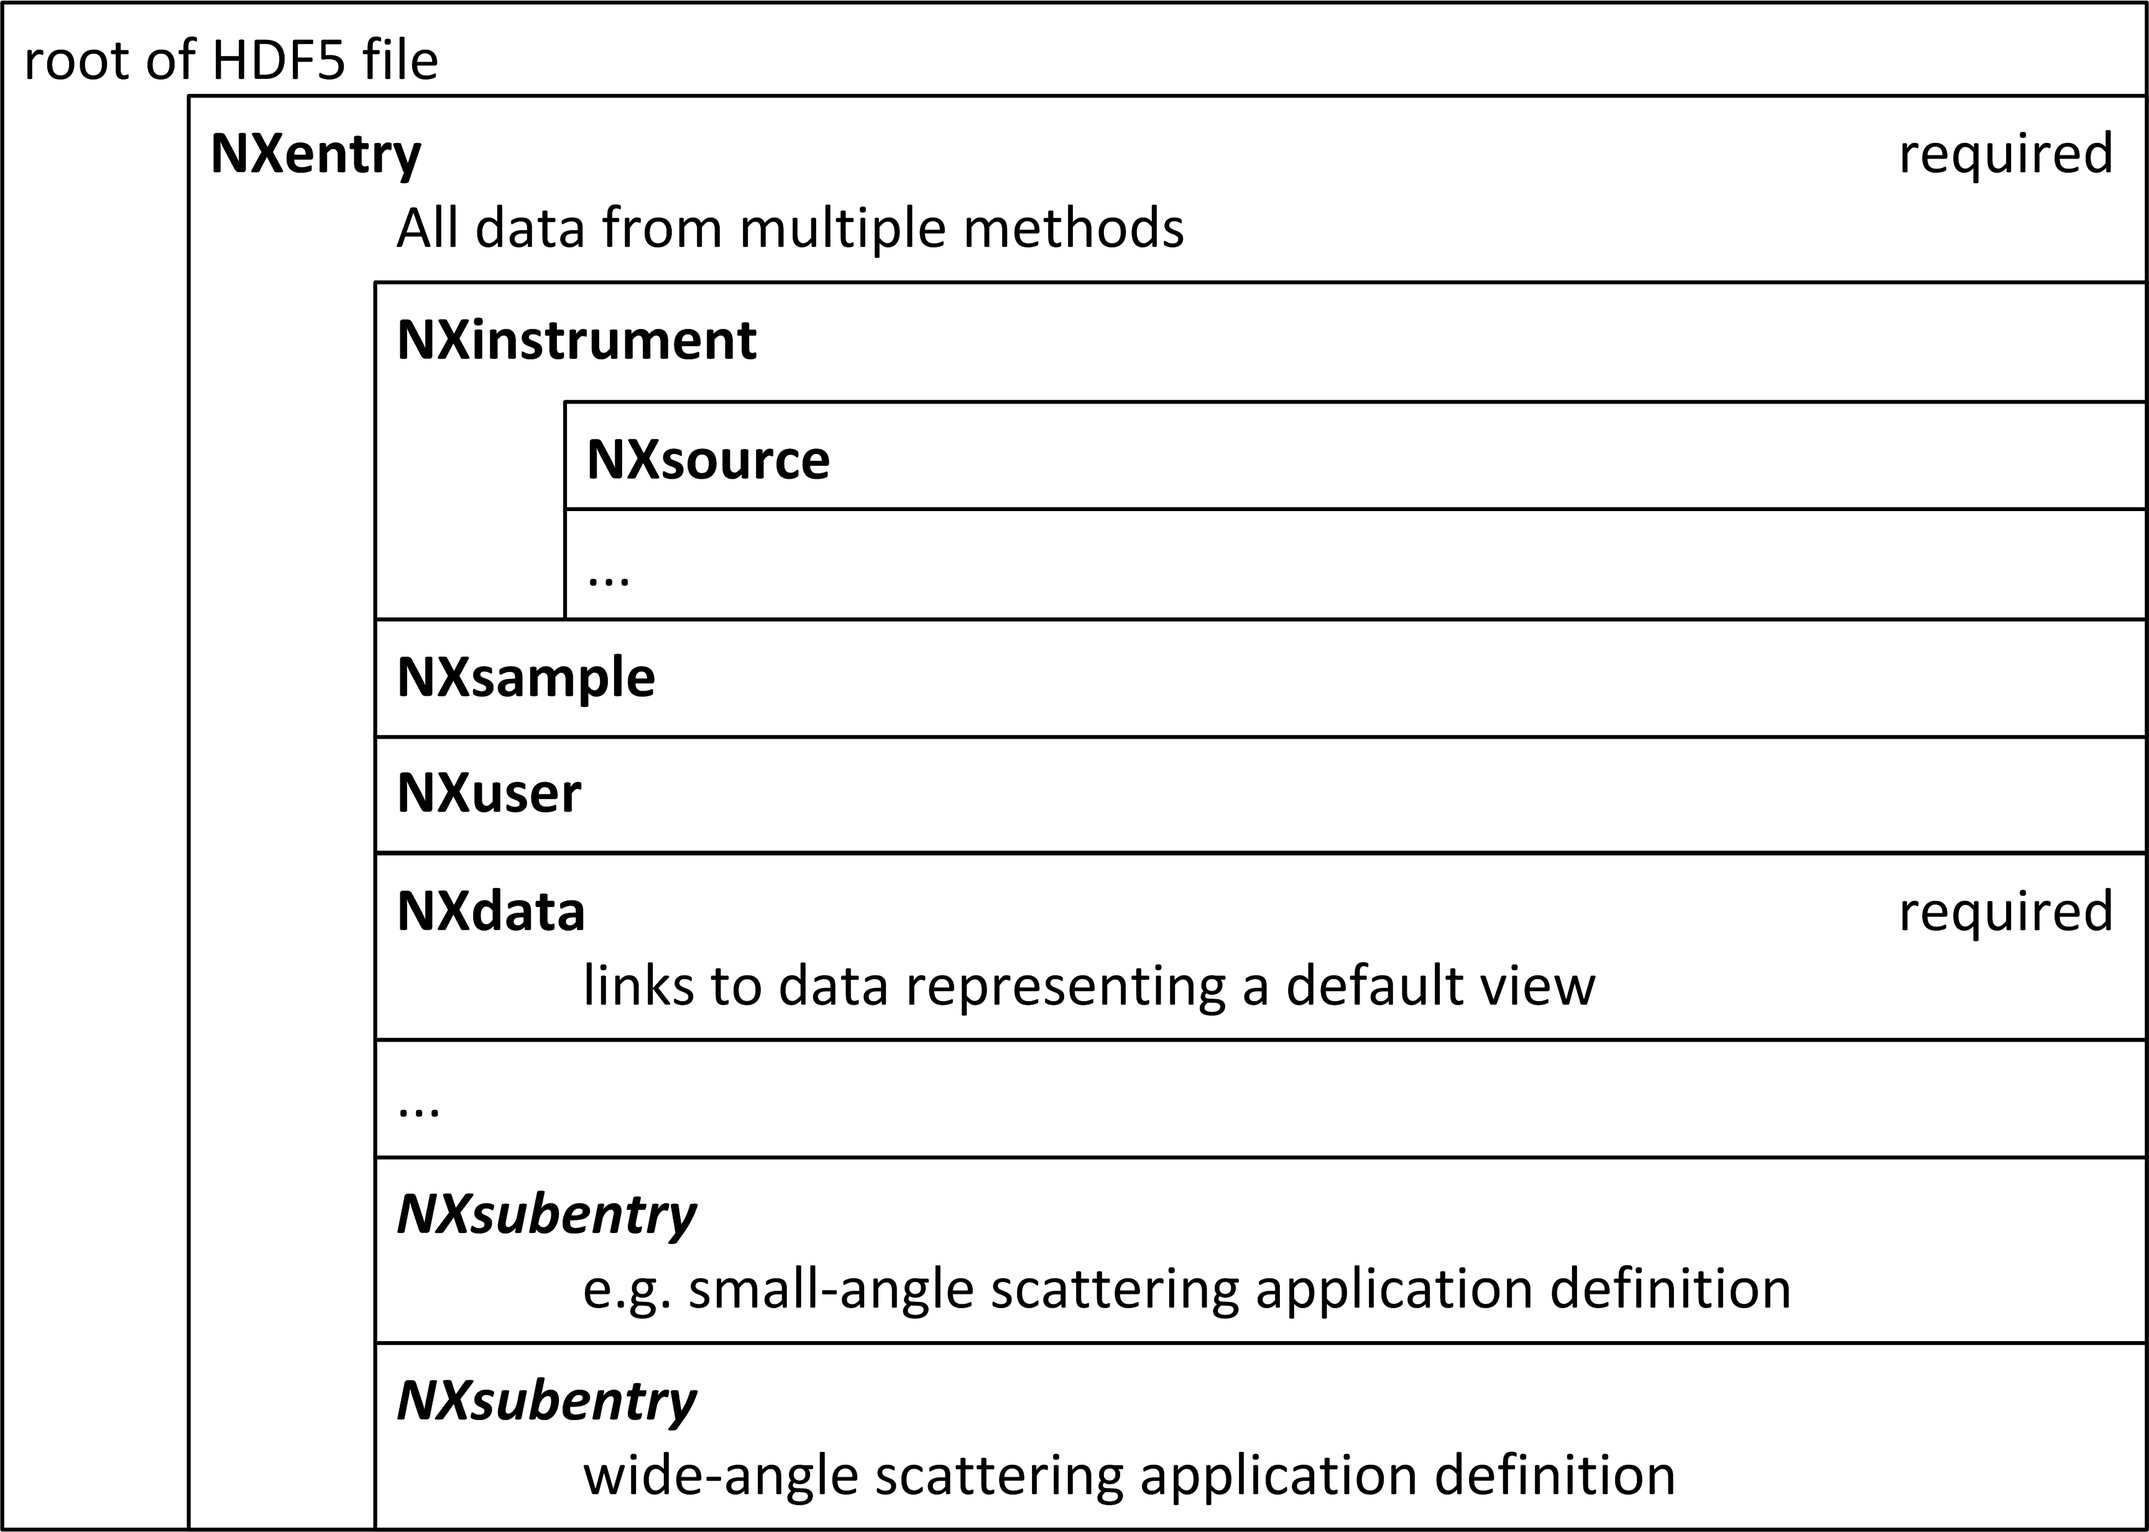
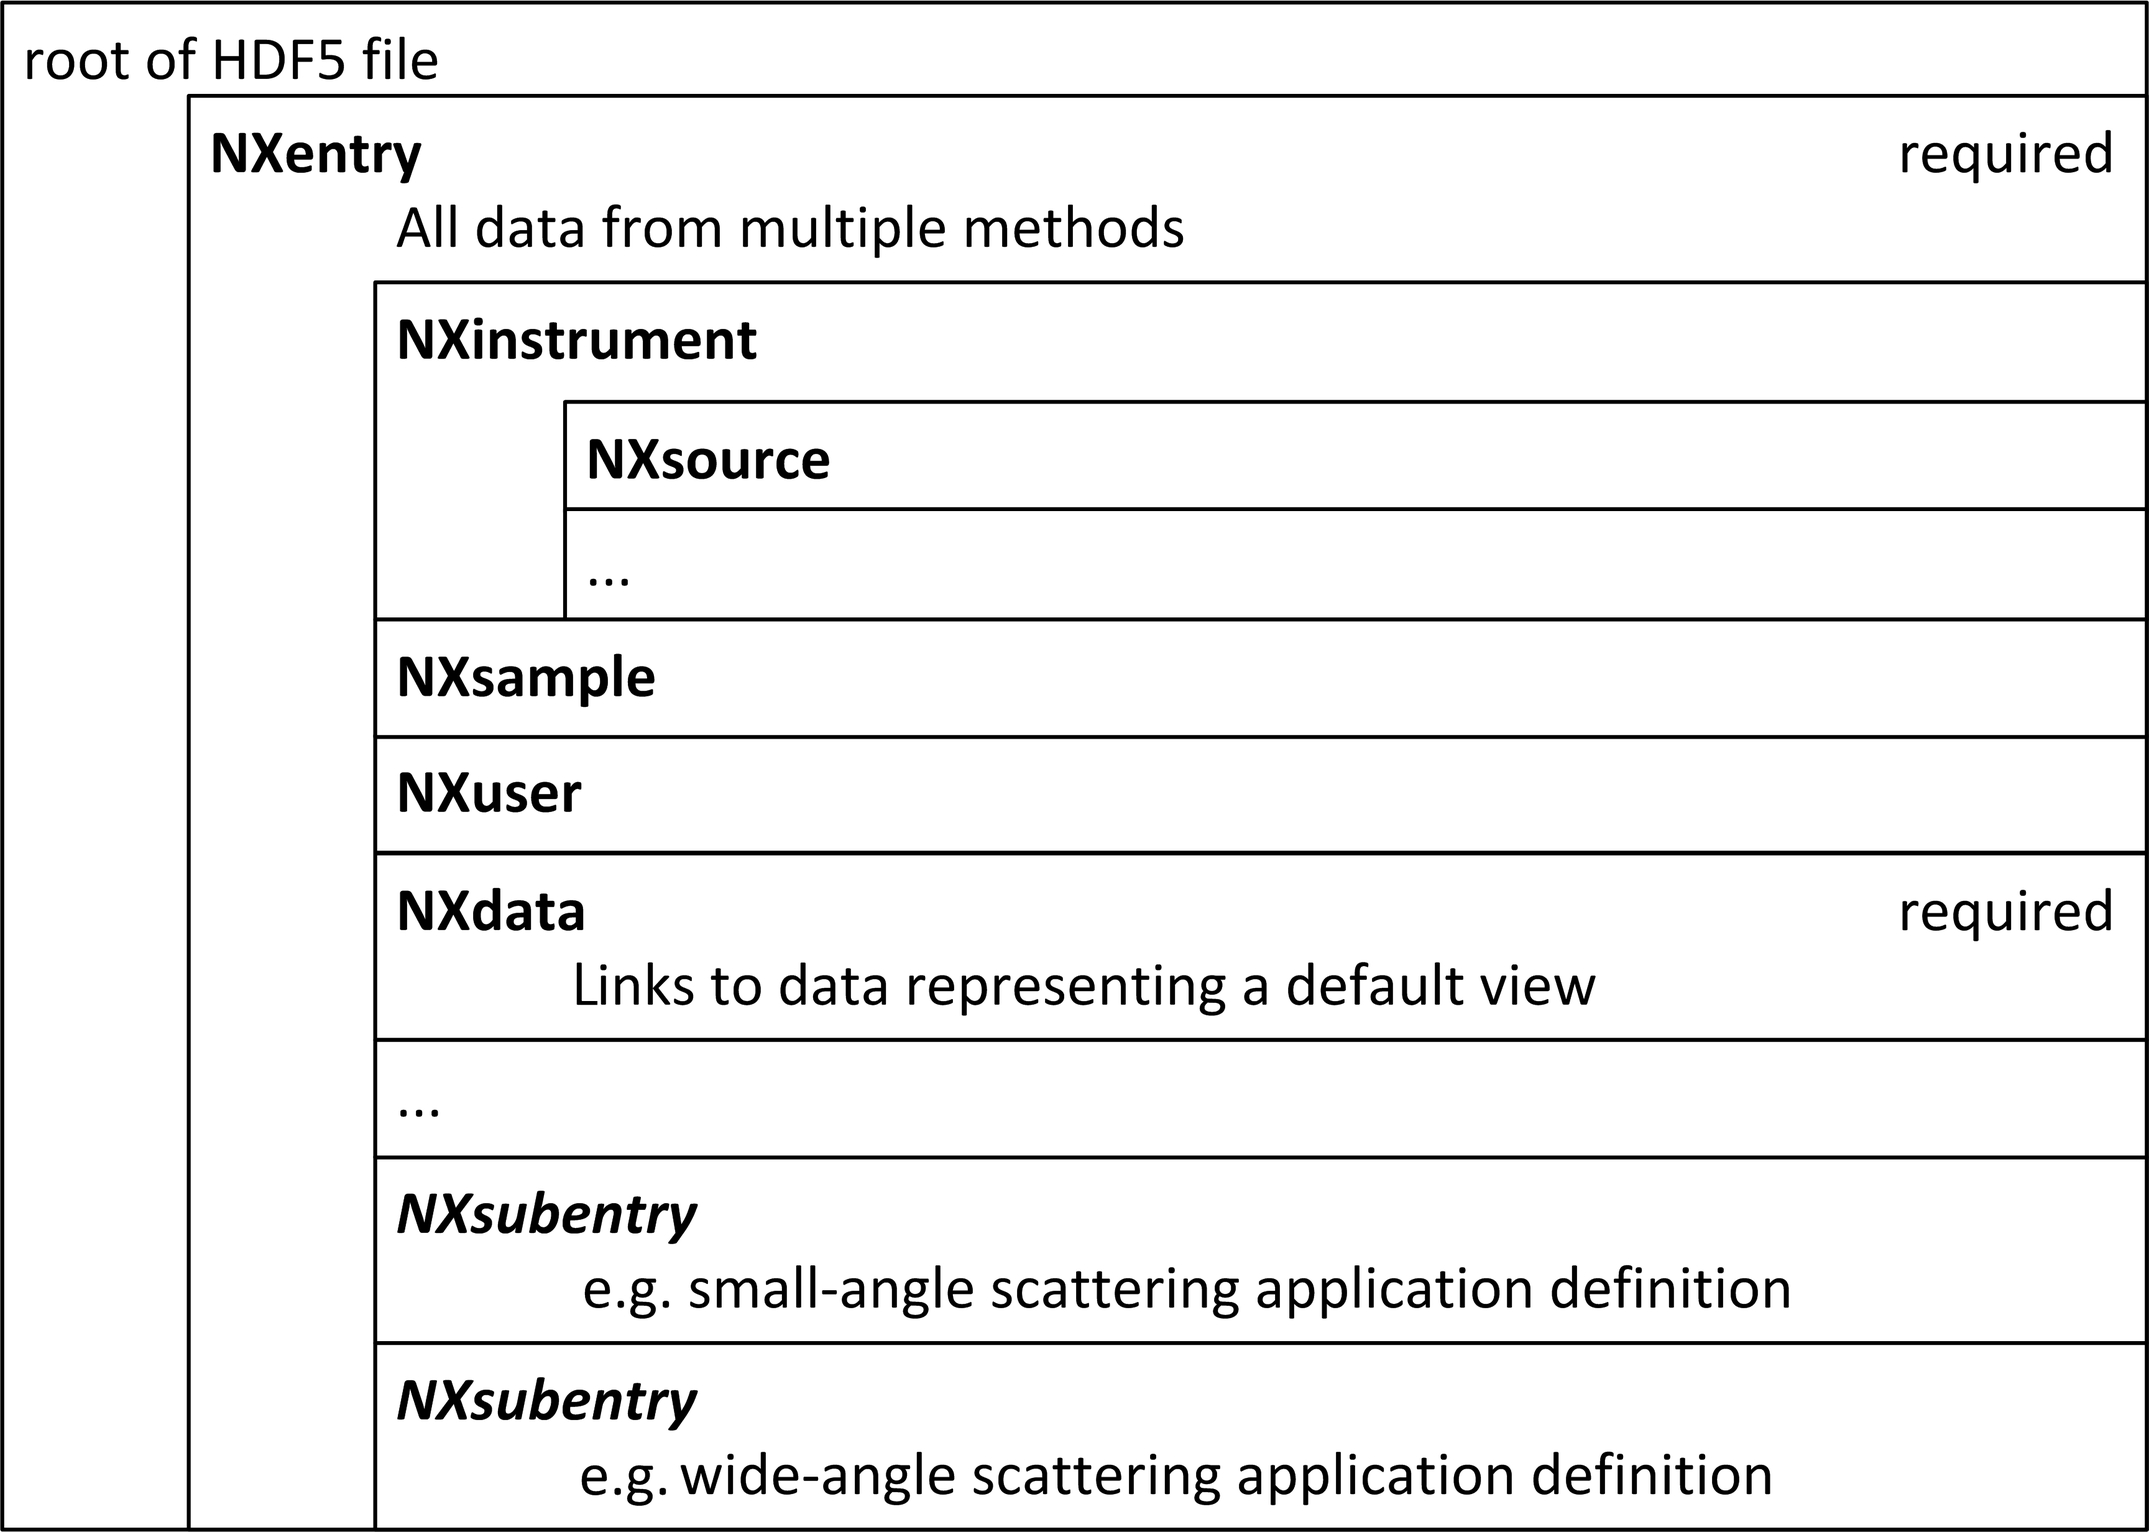
Copy edit pass by F. C. Bernstein -- HJB

Changed region(s): [[0.2812, 0.9375, 0.8123, 1.0], [0.2499, 0.625, 0.2812, 0.6562]]

diff --git a/2014/csipaper/nexus14aip.tex b/2014/csipaper/nexus14aip.tex
@@ -52,28 +52,28 @@ rsi,
 \affiliation{ISIS Facility, STFC, Rutherford Appleton Laboratory, Didcot, OX11 0QX, UK}
 
 \author{Herbert J. Bernstein}
-\affiliation{imgCIF, Dowling College, USA}
+\affiliation{imgCIF, Dowling College, Shirley, NY 11769, USA}
 
 \author{Aaron S. Brewster}
-\affiliation{Lawrence Berkeley National Laboratory, USA}
+\affiliation{Lawrence Berkeley National Laboratory, Berkeley, CA 94720, USA}
 
 \author{Stuart I. Campbell}
-\affiliation{Spallation Neutron Source, Oak Ridge National Laboratory, Oak Ridge, TN, 37831, USA}
+\affiliation{Spallation Neutron Source, Oak Ridge National Laboratory, Oak Ridge, TN 37831, USA}
 
 \author{Bj{\o}rn Clausen}
-\affiliation{Los Alamos National Laboratory, USA}
+\affiliation{Los Alamos National Laboratory, Los Alamos, NM 87545, USA}
 
 \author{Stephen Cottrell}
 \affiliation{ISIS Facility, STFC, Rutherford Appleton Laboratory, Didcot, OX11 0QX, UK}
 
 \author{Jens Uwe Hoffmann}
-\affiliation{Helmholtz Zentrum Berlin, Germany}
+\affiliation{Helmholtz Zentrum, 14109 Berlin, Germany}
 
 \author{Pete R. Jemian}
-\affiliation{Advanced Photon Source, Argonne National Laboratory, Argonne, IL, 60439, USA}
+\affiliation{Advanced Photon Source, Argonne National Laboratory, Argonne, IL 60439, USA}
 
 \author{David M\"annicke}
-\affiliation{ANSTO, Australia}
+\affiliation{ANSTO, New South Wales 2234, Australia}
 
 \author{Raymond Osborn}
 \affiliation{Argonne National Laboratory, Argonne, IL, 60439, USA}
@@ -82,10 +82,10 @@ rsi,
 \affiliation{Spallation Neutron Source, Oak Ridge National Laboratory, Oak Ridge, TN, 37831, USA}
 
 \author{Tobias Richter}
-\affiliation{Diamond Light Source, UK}
+\affiliation{Diamond Light Source, Oxfordshire OX11 0DE, UK}
 
 \author{Jiro Suzuki}
-\affiliation{KEK, Japan}
+\affiliation{KEK, Ibaraki 305-0801, Japan}
 
 \author{Benjamin Watts}
 \affiliation{Swiss Light Source, Paul Scherrer Institute, 5232 Villigen-PSI, Switzerland}
@@ -157,7 +157,7 @@ The development of NeXus is overseen by a committee, the NeXus International Adv
 \section{Design Principles}
 
 The authors of data-acquisition and instrument-control software are encouraged to generate exactly \emph{one} NeXus container file per measurement
-(a measurement is either a data accumulation under fixed conditions,
+(a measurement is either a data accumulation under fixed conditions
 or a scan).
 This file includes not only the detector and monitor data,
 but also metadata, information on the state of the beamline, parameter logs, and more.
@@ -171,8 +171,10 @@ attributes (additional descriptors of groups and fields),
 and links (like file system links).  These basic storage elements are used to
 build the \emph{base classes}, \emph{application definitions},
 and \emph{contributed definitions} that elaborate the NeXus standard.
-As a container format, NeXus allows files to be extended at any moment by
+As a container format, NeXus allows files to be extended by
 additional content, including NeXus base classes, HDF5 groups, and HDF5 datasets.
+Because HDF5 provides full read-write access to the file, such changes can
+be made in an existing NeXus file without the need to write a complete new file.
 
 NeXus can be used for many different experimental techniques,
 and at different levels of data processing.
@@ -181,6 +183,21 @@ a specific subset of the standardized NeXus entities
 (data groups and fields) is needed.
 These subsets, and their hierarchical structure, are standardized
 in the NeXus application definitions (Sect.~\ref{sect_appdef}).
+
+
+Detailed consideration has been given to the composition of the NeXus format, 
+with a comprehensive set of rules for creating a NeXus file now being well defined. 
+For the sake of brevity here, a complete description of the format is 
+provided elsewhere in the NeXus manual\cite{nxman} where a full listing of the 
+rules is presented. However, to illustrate the attention to detail given in the 
+definition of the format, the rules include these considerations:
+\begin{itemize}
+\item How axes are associated with data
+\item That units must be given with the data
+\item How data is to be stored in NeXus fields
+\item How to describe array data which is not in ANSI C storage order
+\end{itemize}
+
 
 \section{File Hierarchies}
 NeXus data files are organized into a hierarchy of groups which, in turn, can contain further groups or fields, 
@@ -206,36 +223,36 @@ When looking at a beamline it is easy to
 discern different components: beam optic components, sample position, detectors and such. It is quite natural to replicate this physical 
 separation with a logical arrangement of storing the data from each component into a separate group. This approach explains the 
 list of beamline components in the \texttt{NXinstrument} group presented in FIG.~\ref{rawfile}. 
-As there can be multiple instances of the same kind of equipment, like slits or detectors, in a given beamline it becomes necessary
+As there can be multiple instances of the same kind of equipment, such as slits or detectors, in a given beamline it becomes necessary
 to add type information to the group name. This type information, the NeXus class name, is provided by a HDF5 attribute.
 By convention NeXus class names start 
 with the prefix \texttt{NX}. Each NeXus group describing a beamline component contains further groups and fields describing the component. 
 A field can contain a single number, a text string or an array, as appropriate to the data to be described.  
 
-The requirement to store multiple related scans or runs in the same file, or to capture 
+The need to be able to store multiple related scans or runs in the same file, or to capture 
 a complete workflow in a file, causes the beamline component hierarchy to be pushed one level deeper into an \texttt{NXentry} 
 group in the hierarchy. The \texttt{NXentry}  group thus represents one scan or run (or a processed data entry, as will be discussed later). 
 The \texttt{NXentry} group also holds the experiment metadata, such as the date and time at which it was performed. 
 
-In the course of NeXus history,
+In the course of the evolution of NeXus,
 the decision was taken to move \texttt{NXmonitor}
 out of \texttt{NXinstrument} to the higher hierarchy level of \texttt{NXentry},
 in order to facilitate quick inspection by humans.
 
 To enable a simple default visualization,
-a \texttt{NXdata} group must be provided at \texttt{NXentry} level.
+an \texttt{NXdata} group must be provided at \texttt{NXentry} level.
 It contains information about plot axes and links to the data
 (which typically reside in the \texttt{NXdetector} group).
 Links are supported by HDF5 and work like symbolic links in the Unix file system.
 
 A special base class, \texttt{NXcollection}, exempts its contents from validation
-and thereby allows inclusion of whatever data in arbitrary non-NeXus formats.
+and thereby allows inclusion of any data in arbitrary non-NeXus formats.
 
 \subsubsection{Multiple Method Instruments}
 
 Particularly at X-ray sources,
 some instruments offer multiple techniques that can be used in parallel.
-For example small-angle scattering and powder diffraction 
+For example, small-angle scattering and powder diffraction 
 can be measured simultaneously at a SAXS/WAXS beamline.
 We recommend storing the data from all methods in \emph{one} file,
 in a \emph{single} \texttt{NXentry} hierarchy
@@ -275,15 +292,15 @@ Scans are stored in NeXus following these conventions:
  hierarchy as an array. The array's first dimension is the scan axis. This is the unlimited dimension in 
  the implementation and data at each scan point is appended to the array. 
 \item The \texttt{NXdata} group holds links to all the variables varied or collected during the scan. 
- This creates something equivalent to, or better than, the tabular representation people are used to for scans. 
- The main detector data can be plotted against any scanned parameter as well as against everything that was 
+ This creates something equivalent to, or better than, the tabular representation people are accustomed to for scans. 
+ The detector data can be plotted against any scanned parameter as well as against everything that was 
  deemed worth recording in addition to that.  The necessary data is all gathered together in the \texttt{NXdata}
  group either directly or via links, so that other groups do not
  normally have to be searched to do this plotting.
  
 \end{itemize}
 
-NeXus allows multi-dimensional scans too. This makes it very simple to produce meaningful slices through data 
+NeXus also allows multi-dimensional scans. This makes it very simple to produce meaningful slices through data 
 volumes even with NeXus-agnostic software ({\it e.g.} HDFView\cite{hdfview}). 
 % FIXME: this pathology is not necessary to describe, not unique to NeXus, too much detail for this manuscript
 %Interrupting a multi-dimensional scan may, depending 
@@ -291,9 +308,9 @@ volumes even with NeXus-agnostic software ({\it e.g.} HDFView\cite{hdfview}).
 
 
 
-\subsection{Processed Data}
+\subsection{Processed Data File Hierarchy}
 
-At the request of the user community, NeXus created a simplified structure for storing the result of data 
+At the request of the user community, NeXus created a simplified structure for storing the results of data 
 processing: be it reduction or analysis. 
 % FIXME: looks like a justification; not necessary to justify
 %In many cases even the reduced data is big enough to need 
@@ -312,7 +329,7 @@ to store the results of the processing, together with its associated axes if the
 
 In addition to the \texttt{NXdata} and \texttt{NXsample} groups, 
 the \texttt{NXprocess} group provides structure to store details 
-about the processing, such as the program used, its version, 
+about the processing, such as the program (or programs) used, its version, 
 the date of processing, and other metadata. 
 The \texttt{NXprocess} group can hold additional \texttt{NXparameter} groups which are containers 
 for storing the input and output parameters of the program used to perform the processing. 
@@ -329,19 +346,7 @@ of the translations and rotations necessary to move a given component from the z
 system to its actual position. As coordinate transformations are not commutative, the order of transformations 
 must also be stored.
 
-Detailed consideration has been given to the composition of the NeXus format, 
-with a comprehensive set of rules for creating a NeXus file now being well defined. 
-For the sake of brevity here, a complete description of the format is 
-provided elsewhere in the NeXus manual\cite{nxman} where a full listing of the 
-rules is presented. However, to illustrate the attention to detail given in the 
-definition of the format, the rules include these considerations:
-\begin{itemize}
-\item How axes are associated with data
-\item That units must be given with the data
-\item How data is to be stored in NeXus fields
-\item How to describe array data which is not in ANSI C storage order
-\end{itemize}
-
+Consult the NeXus manual for further rules on the handling of axes, units and special cases of data storage.
 
 \section{Base Classes}
 
@@ -356,7 +361,7 @@ that can be used for each class.
 The terms in the dictionary comprise concepts and names common to the topic of the base class.
 The expected spelling and definition of each term is specified in the base classes. 
 It is neither expected nor required to provide all the terms specified in a base class. 
-Terms with other names are permitted, but might not be recognized by standard software.
+Terms with other names are permitted but might not be recognized by standard software.
 These terms designate data fields that can be stored within a group.
 A data field can have a simple type (like integer, float, date/time, binary),
 or it can be a NeXus subgroup.
@@ -398,7 +403,7 @@ Historically, an application definition addressed one type of instrument,
 like X-ray reflectometer, or direct-geometry neutron time-of-flight spectrometer.
 Thus, application definitions were originally named \emph{instrument definitions}.
 However, as NeXus can also be used for processed data
-like a tomography reconstruction or a dynamic scattering law $S(Q,\omega)$, 
+like a tomographic reconstruction or a dynamic scattering law $S(Q,\omega)$, 
 the more generic term \emph{application definition} has been adopted.
 
 
@@ -419,7 +424,7 @@ canSAS, NeXus, and the IUCr Commission on Small-Angle Scattering.
 All such proposals from the scientific community to extend NeXus 
 with new application definitions and base classes are added to 
 NeXus, initially, as contributed definitions either in incubation 
-or a special case not for general use. The NIAC is charged to 
+or a special case not for general use. The NIAC (see Governance, below) is charged to 
 review any new contributed definitions and provide feedback to the 
 authors before ratification and acceptance.
 
@@ -456,11 +461,11 @@ towards NeXus as the only data file format.
 
 This is reflected in the experience of the muon community. For the ISIS source, the move to a Windows PC-based data acquisition 
 system in 2002 required a new data format, providing an ideal opportunity to exploit the emerging NeXus standard\cite{muon1}. In 
-contrast, sources at PSI, TRIUMF and KEK continued to make good use of existing formats and software. More recently, funding 
+contrast, sources at PSI, TRIUMF and KEK continue to make good use of existing formats and software. More recently, funding 
 from the EU has enabled the community to develop the Application Definition as a common exchange format for muon data\cite{muon2}. 
 
-Whether used as the main or an intermediate format, users are able to produce compatible NeXus files for data written 
-across all facilities, enhancing the uptake of NeXus within the community.
+Whether used as the main or an intermediate format, users are able to produce compatible NeXus files from data written 
+at all these facilities, enhancing the uptake of NeXus within the community.
 
 
 \section{Backwards Compatibility}
@@ -478,7 +483,7 @@ file creation in the future.
 NeXus has matured considerably over the last ten years and is now in use in many facilities. NeXus 
 is flexible enough to accommodate a wide variety of instruments and scientific applications,
 yet efficient enough to handle the data coming from modern high speed detectors.
-More information, including a full PDF manual, can be found on the project 
+More information, including a full manual in PDF format, can be found on the project 
 website\cite{nxwww}.  Members of the NIAC\cite{niac}
 always welcome correspondence concerning the development of the NeXus data format.
 
